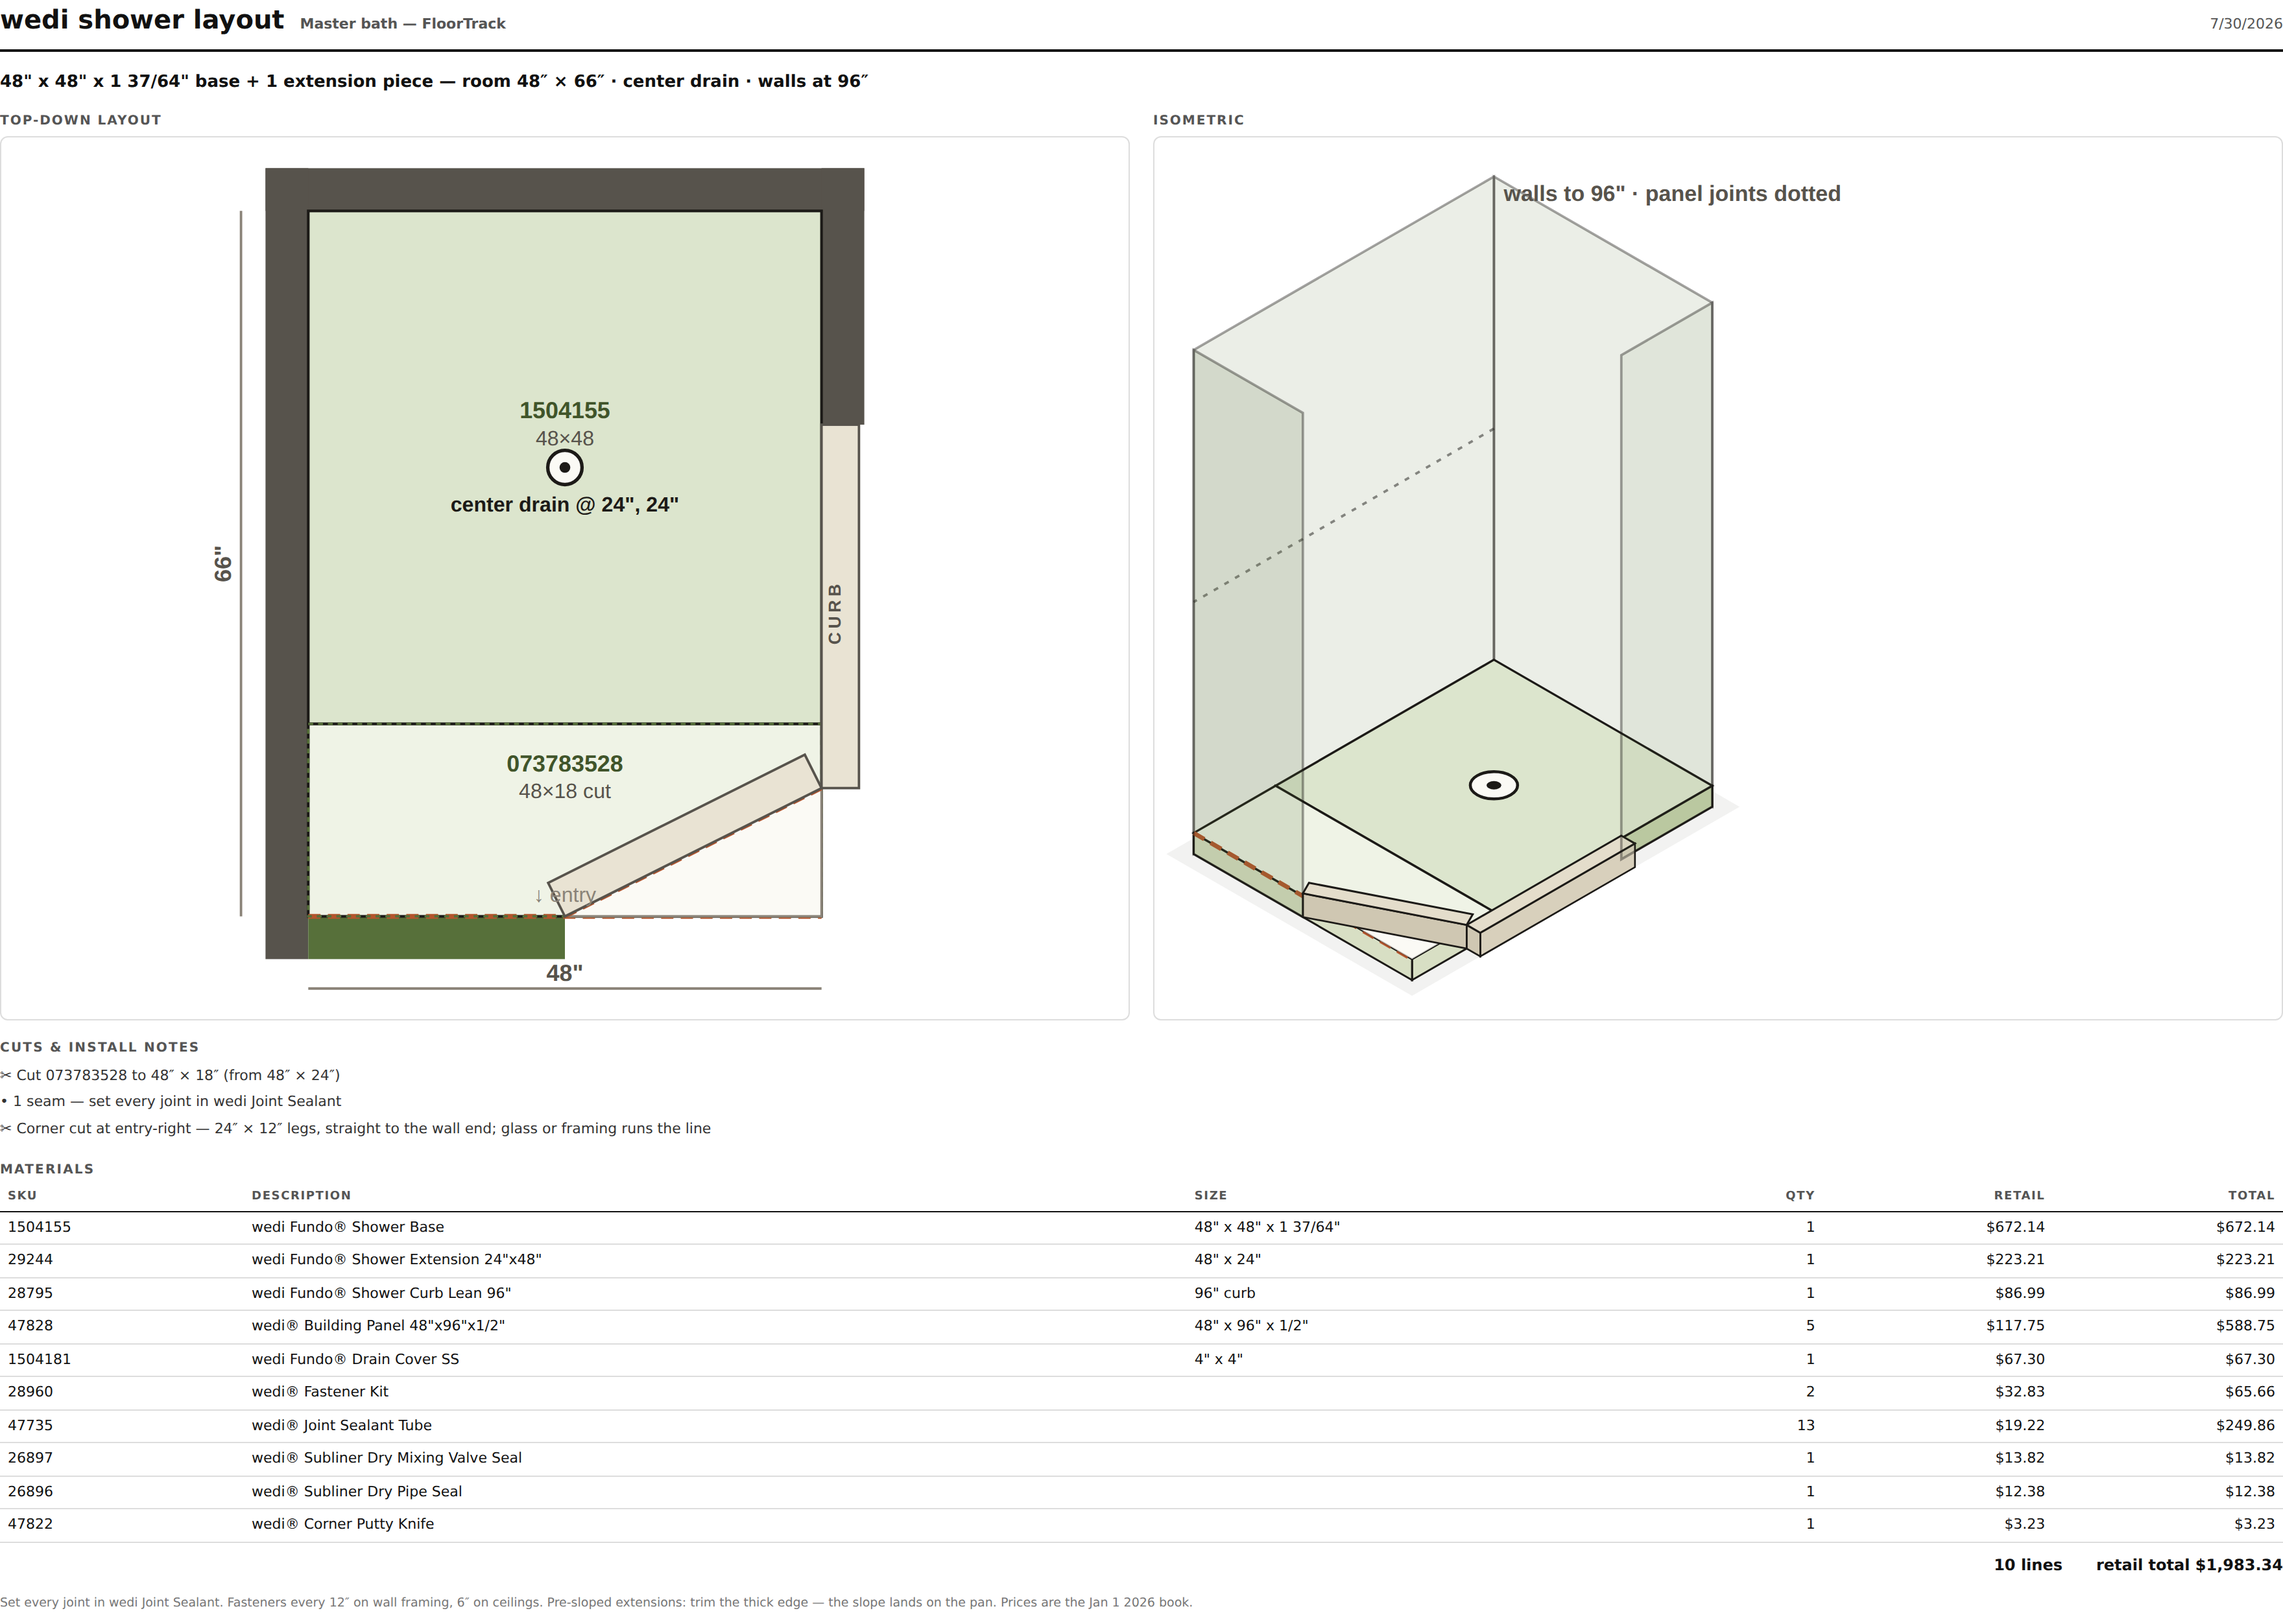
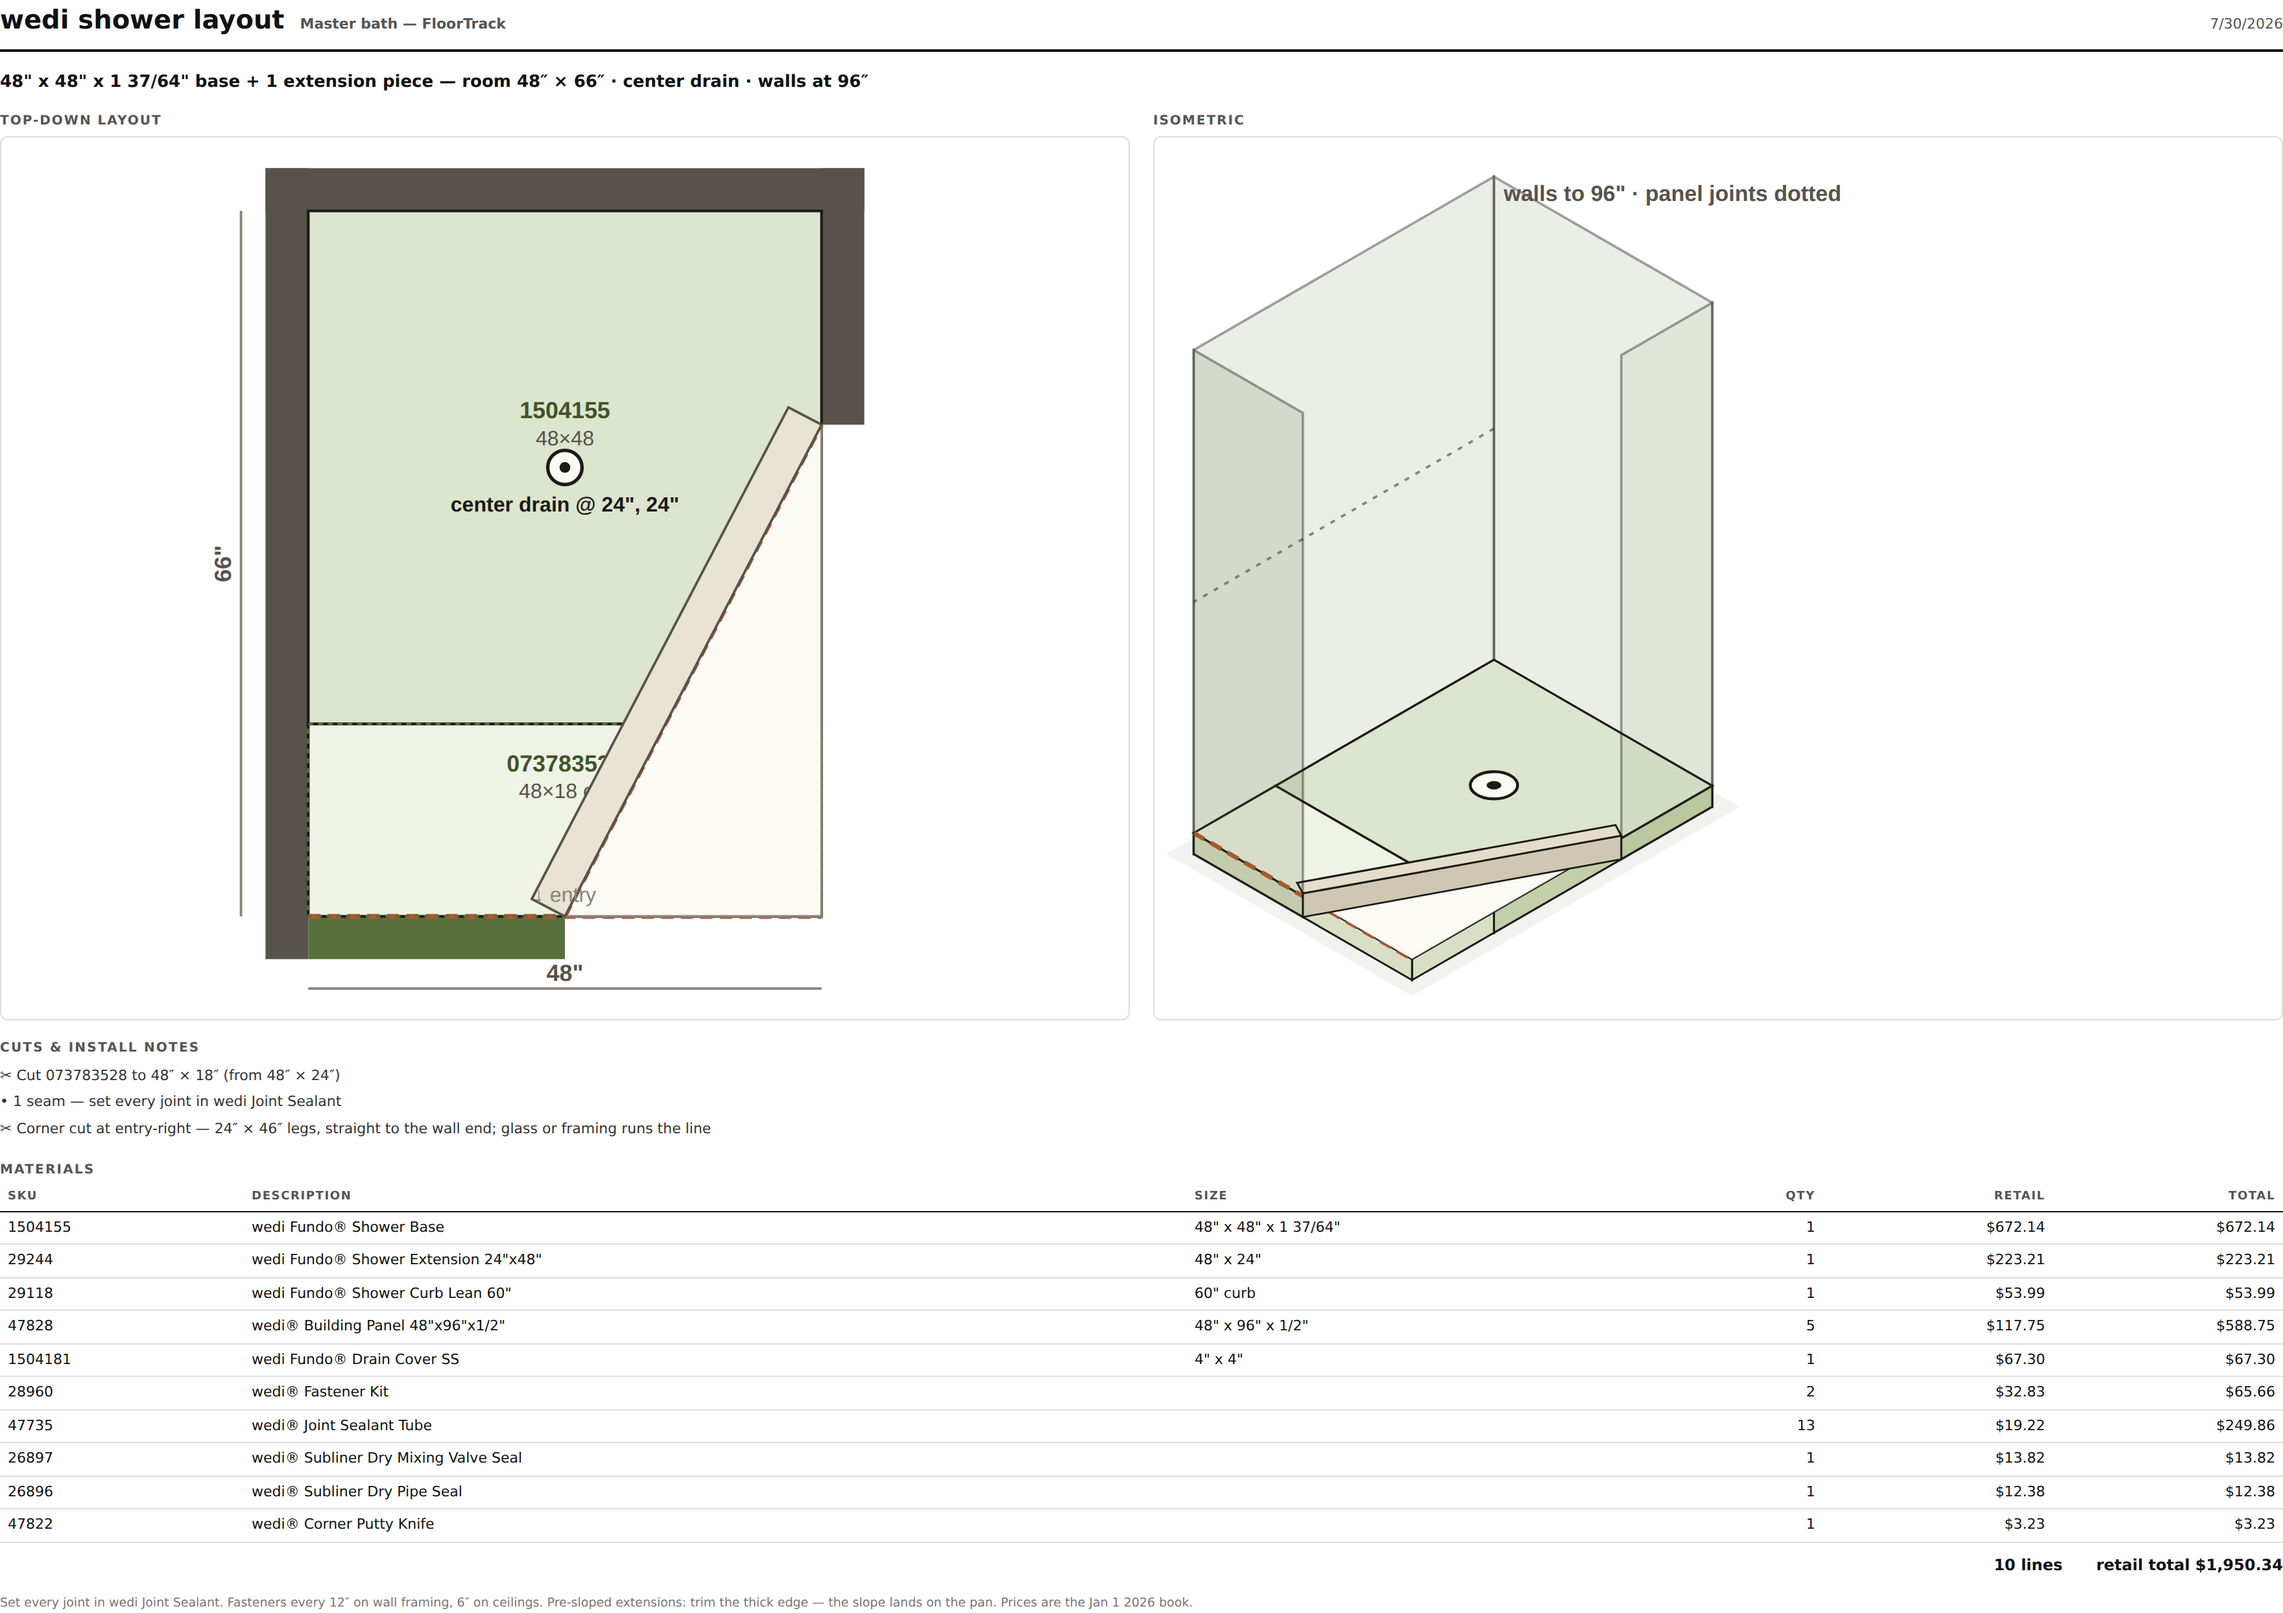
wedi: a corner cut's line always lands on the wall ends (42x42 mockup)
The owner's 42x42 mockup refines the wall-to-wall rule: when an
adjacent edge HAS a wall, the cut's leg spans the edge's whole open run
so the line lands on that wall's end — however far, not just within
24". A 14" entry wall and a 28" right wall give ONE 28x14 line from
wall end to wall end with zero straight curb runs left over. Only a
wall-less edge (or one walled clear to the corner) keeps the standard
12" leg — the classic neo-angle chamfer. New W7 preview shot
reproduces the mockup; the 42x42 scenario is pinned in wedi.test.js.

Suite 870 passing; vite build clean.

Claude-Session: https://claude.ai/code/session_01NSQfAo9bddXXohRmL3RHmn

Changed region(s): [[0.25, 0.2476, 0.375, 0.5571], [0.5625, 0.4952, 0.7188, 0.588]]

diff --git a/src/wedi.js b/src/wedi.js
@@ -4305,13 +4305,13 @@ export function openEdges(dims, walls) {
 
 // Where the curb actually runs (owner sketches 2026-07-30): the open edge
 // runs, with a corner cut re-routing it as ONE straight line — never a
-// dogleg. Each cut carries a leg along each adjacent edge: when a wall ends
-// within 2×CORNER_CUT of the corner the leg reaches THAT WALL'S END (the
-// owner's "always a straight line from one wall to another"), otherwise it
-// takes the standard CORNER_CUT; an edge walled to the corner keeps the
-// standard leg too (the cut lands against the wall face). The straight runs
-// give up exactly those legs, so the leftover sliver a wall-end cut would
-// strand is absorbed into the diagonal.
+// dogleg. Each cut carries a leg along each adjacent edge: when that edge
+// HAS a wall, the leg spans the whole open run so the line lands on the
+// wall's end (the owner's "always a straight line from one wall to
+// another", however far that is); an edge with no wall at all — or walled
+// clear to the corner — takes the standard CORNER_CUT leg (the classic
+// neo-angle chamfer / a cut against the wall face). The straight runs give
+// up exactly those legs, so nothing is stranded behind the cut.
 export const CORNER_CUT = 12;    // the cut's default leg along each edge
 export function curbRuns(dims, walls, corners) {
   const rw = +dims.w || 0, rd = +dims.d || 0;
@@ -4319,17 +4319,18 @@ export function curbRuns(dims, walls, corners) {
   const cov = open.cov;
   const cut = {};
   (corners || []).forEach((k) => { cut[k] = true; });
-  // The open run touching each corner, per adjacent edge (h = along the
-  // back/entry edge, v = along the left/right edge); 0 = walled to the corner.
+  // Per adjacent edge of each corner (h = along the back/entry edge, v =
+  // along the left/right edge): the open run touching the corner (0 = walled
+  // to it) and how much wall the edge carries.
   const touch = {
-    bl: { h: cov.back > 0.5 ? 0 : rw, v: cov.left > 0.5 ? 0 : rd },
-    br: { h: Math.max(0, rw - Math.min(cov.back, rw)), v: cov.right > 0.5 ? 0 : rd },
-    fl: { h: cov.entry > 0.5 ? 0 : rw, v: Math.max(0, rd - Math.min(cov.left, rd)) },
-    fr: { h: Math.max(0, rw - Math.min(cov.entry, rw)), v: Math.max(0, rd - Math.min(cov.right, rd)) },
+    bl: { h: cov.back > 0.5 ? 0 : rw, v: cov.left > 0.5 ? 0 : rd, ch: cov.back, cv: cov.left },
+    br: { h: Math.max(0, rw - Math.min(cov.back, rw)), v: cov.right > 0.5 ? 0 : rd, ch: cov.back, cv: cov.right },
+    fl: { h: cov.entry > 0.5 ? 0 : rw, v: Math.max(0, rd - Math.min(cov.left, rd)), ch: cov.entry, cv: cov.left },
+    fr: { h: Math.max(0, rw - Math.min(cov.entry, rw)), v: Math.max(0, rd - Math.min(cov.right, rd)), ch: cov.entry, cv: cov.right },
   };
-  const leg = (run, max) => Math.min(max, run > 0.5 && run <= 2 * CORNER_CUT ? run : CORNER_CUT);
+  const leg = (run, covered, max) => Math.min(max, run > 0.5 && covered > 0.5 ? run : CORNER_CUT);
   const diags = Object.keys(cut).sort().map((k) => {
-    const h = leg(touch[k].h, rw), v = leg(touch[k].v, rd);
+    const h = leg(touch[k].h, touch[k].ch, rw), v = leg(touch[k].v, touch[k].cv, rd);
     return { corner: k, h: round2(h), v: round2(v), len: round2(Math.sqrt(h * h + v * v)) };
   });
   const diagOf = {};

diff --git a/src/wedi.test.js b/src/wedi.test.js
@@ -263,8 +263,9 @@ test("wedi open edges: curbs follow the open perimeter, corners only cut open", 
   assert.deepEqual(kitFor("US9100004").cfg.corners, [], "no cuts → cfg.corners []");
 
   // A corner cut re-routes the curb as ONE straight line (owner sketch):
-  // standard legs are 12", but a wall ending within 24" of the corner pulls
-  // the cut line straight to ITS END — no leftover sliver, no dogleg.
+  // when the adjacent edge HAS a wall, the leg spans the whole open run so
+  // the line lands on the wall's end — however far — and only a wall-less
+  // edge (or one walled to the corner) takes the standard 12" leg.
   const r1 = curbRuns(dims, threeWalls, []);
   assert.deepEqual(r1.segs, [{ side: "entry", from: 0, len: 60 }], "no cuts → curb = the open runs");
   assert.equal(r1.openLen, 60, "no cuts → openLen unchanged");
@@ -279,6 +280,19 @@ test("wedi open edges: curbs follow the open perimeter, corners only cut open", 
   assert.deepEqual(r3.segs, [{ side: "entry", from: 0, len: 48 }],
     "the 16\" right sliver is absorbed into the diagonal — no dogleg");
   assert.ok(near(r3.openLen, 48 + 20), "openLen = entry run + the wall-to-wall line: " + r3.openLen);
+  // The owner's 42×42 screenshot: an entry wall 14" in from the left and a
+  // right wall 28" down — the curb is ONE straight line between the two wall
+  // ends, whatever the distance, with no straight runs left over.
+  const d42 = { w: 42, d: 42 };
+  const w42 = [
+    { len: 42, h: 96, side: "back" }, { len: 42, h: 96, side: "left" },
+    { len: 28, h: 96, side: "right" }, { len: 14, h: 96, side: "entry", extra: true },
+  ];
+  const r4 = curbRuns(d42, w42, ["fr"]);
+  assert.deepEqual(r4.diags, [{ corner: "fr", h: 28, v: 14, len: round2(Math.sqrt(28 * 28 + 14 * 14)) }],
+    "42×42: the cut spans entry-wall end to right-wall end (28 × 14): " + JSON.stringify(r4.diags));
+  assert.deepEqual(r4.segs, [], "wall-to-wall line leaves no straight curb runs");
+  assert.ok(near(r4.openLen, 31.3, 0.05), "openLen = just the one line: " + r4.openLen);
   // Cutting both entry corners of the 36×60 kit pushes the curb past 60",
   // so the default pick moves up to the 96" lean curb.
   const kitCut2 = kitFor("US9100004", { corners: ["fl", "fr"] });

diff --git a/.scratch/066_wedi-configurator/ticket.md b/.scratch/066_wedi-configurator/ticket.md
@@ -308,11 +308,13 @@ landed in the prototype (engine rules carry self-tests):
     the room to the same ring the walls draw in, ends butting the wall
     faces, ring corners filled where two open runs meet.
 31. **A corner cut is a straight line wall to wall, never a dogleg** (owner
-    correction): a wall ending within 2×12" of the corner pulls the cut
-    line straight to ITS END (`curbRuns` legs h × v — 12×16 for a 20" wall
-    in a 36" room; 45° only when even), absorbing the sliver the old fixed
-    12" chamfer left stranded. The chamfer, curb diagonal, cut lists, and
-    print notes all read the legs.
+    correction, refined by the 42×42 mockup): when an adjacent edge HAS a
+    wall, the cut's leg spans the whole open run so the line lands on that
+    wall's end — however far (a 14" entry wall + 28" right wall in 42×42
+    gives one 28×14 line and zero straight curb runs); only a wall-less
+    edge, or one walled to the corner, takes the standard 12" leg (the
+    classic neo-angle chamfer). `curbRuns` carries the legs; the chamfer,
+    curb diagonal, cut lists, and print notes all read them.
 
 ## Assumptions to confirm before production
 
